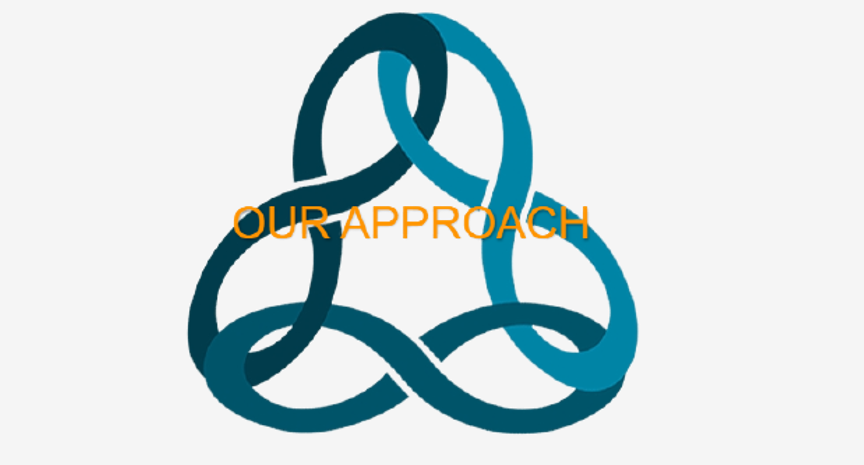
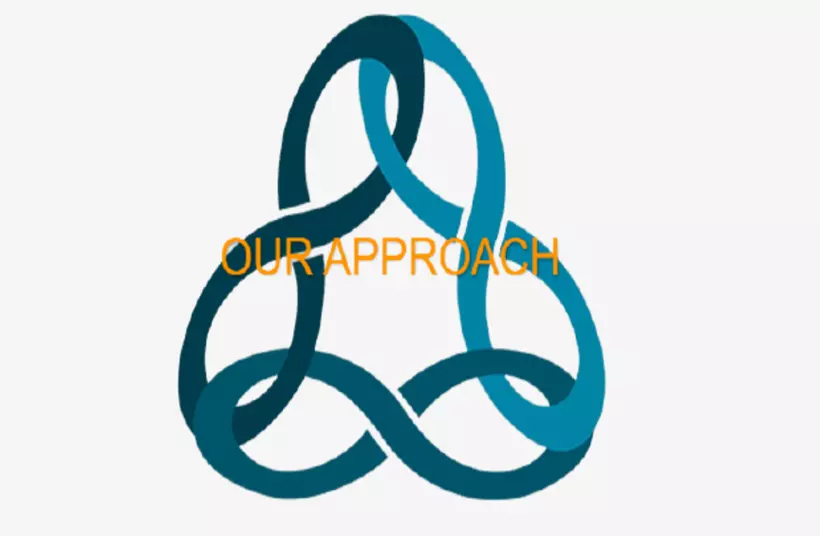
about webpimages

Changed region(s): [[0.2744, 0.4215, 0.7012, 0.5118]]

diff --git a/templates/team.html b/templates/team.html
@@ -6,30 +6,30 @@
     <div class="nameplate-template">
         <div class="container-fluid">
             <div class="row">
-                    <a class="col-4" style="padding:0%" href="#vission_mission"><div class="nameplate-image" style="background-image: url({{url_for('static', filename='/images/skip/img1.webp')}});"></div></a>
-                    <a class="col-4" style="padding:0%" href="#who_we_are"><div class="nameplate-image" style="background-image: url({{url_for('static', filename='/images/skip/img2.webp')}});"></div></a>
-                    <a class="col-4" style="padding:0%" href="#our_approach"><div class="nameplate-image" style="background-image: url({{url_for('static', filename='/images/skip/img3.webp')}});"></div></a>
-                    <a class="col-4" style="padding:0%" href="#our_proud_partners"><div class="nameplate-image" style="background-image: url({{url_for('static', filename='/images/skip/img4.webp')}});"></div></a>
-                    <a class="col-4" style="padding:0%" href="#team_template"><div class="nameplate-image" style="background-image: url({{url_for('static', filename='/images/skip/img5.webp')}});"></div></a>
-                    <a class="col-4" style="padding:0%" href="#financials"><div class="nameplate-image" style="background-image: url({{url_for('static', filename='/images/skip/img6.webp')}});"></div></a>
+                    <a class="col col-xl-4 col-lg-4 col-md-4 col-sm-6 col-6" style="padding-top: 1.5%; padding-bottom: 1.5%;" href="#vission_mission"><div class="nameplate-image" style=" background-image: url({{url_for('static', filename='/images/skip/img1.webp')}});"></div></a>
+                    <a class="col col-xl-4 col-lg-4 col-md-4 col-sm-6 col-6" style="padding-top: 1.5%; padding-bottom: 1.5%;" href="#who_we_are"><div class="nameplate-image" style="background-image: url({{url_for('static', filename='/images/skip/img2.webp')}});"></div></a>
+                    <a class="col col-xl-4 col-lg-4 col-md-4 col-sm-6 col-6" style="padding-top: 1.5%; padding-bottom: 1.5%;" href="#our_approach"><div class="nameplate-image" style="background-image: url({{url_for('static', filename='/images/skip/img3.webp')}});"></div></a>
+                    <a class="col col-xl-4 col-lg-4 col-md-4 col-sm-6 col-6" style="padding-top: 1.5%; padding-bottom: 1.5%;" href="#our_proud_partners"><div class="nameplate-image" style="background-image: url({{url_for('static', filename='/images/skip/img4.webp')}});"></div></a>
+                    <a class="col col-xl-4 col-lg-4 col-md-4 col-sm-6 col-6" style="padding-top: 1.5%; padding-bottom: 1.5%;" href="#team_template"><div class="nameplate-image" style="background-image: url({{url_for('static', filename='/images/skip/img5.webp')}});"></div></a>
+                    <a class="col col-xl-4 col-lg-4 col-md-4 col-sm-6 col-6" style="padding-top: 1.5%; padding-bottom: 1.5%;" href="#financials"><div class="nameplate-image" style="background-image: url({{url_for('static', filename='/images/skip/img6.webp')}});"></div></a>
             </div>
         </div>
     </div>
 
     <div id="vission_mission" class="team-template">
-        <h1 class="team-title">Vision & Mission</h1>
+        <h1 class="about-title">Vision & Mission</h1>
     </div>
     
     <div id="who_we_are" style="background-color: aqua;">
-        <h1 class="team-title">Who we Are</h1>
+        <h1 class="about-title">Who we Are</h1>
     </div>
     
     <div id="our_approach" class="team-template">
-        <h1 class="team-title">Our Approach</h1>
+        <h1 class="about-title">Our Approach</h1>
     </div>
     
     <div id="our_proud_partners" style="background-color: aqua;">
-        <div class="team-title">Our Proud Partners</div>
+        <div class="about-title">Our Proud Partners</div>
         <div class="container-fluid">
         <div class="row">
             <div class="col-lg-3 col-md-6 col-xs-12">
@@ -44,7 +44,7 @@
     </div>
 
     <div id="team_template" class="team-template">
-        <h1 class="team-title">Team Members</h1>
+        <h1 class="about-title">Team Members</h1>
         <div class="container-fluid">
             <div class="row team-rows justify-content-center">
                 <div class="col-xl-3 col-lg-4 col-md-6  col-sm-6 col-12 team-cols">

diff --git a/static/css/style.css b/static/css/style.css
@@ -65,72 +65,6 @@ ul.dropdown-menu.show {
 .layout-nav-link:hover{
   color: white;
 }
-
-
-/***Team Page Starts***/
-.team-template{
-	padding-top: 10px;
-	padding-bottom: 10px;
-  
-  background-color: #7cffcb;
-  background-image: linear-gradient(315deg, #7cffcb 0%, #74f2ce 74%);
-
-}
-.team-title{
-	text-align: center;
-	font-size: 350%;
-	text-transform: uppercase;
-	
-	margin-bottom: 10px;
-	margin-top: 20px;
-	color: #fff;
-  font-family: 'Open Sans Condensed', sans-serif;
-	text-shadow: 0 1px 10px rgb(0 0 0 / 60%);
-}
-.flip-card {
-	background-color: transparent;
-	width: 300px;
-	height: 300px;
-	perspective: 1000px;
-} 
-.flip-card-inner {
-	position: relative;
-	width: 100%;
-	height: 100%;
-	text-align: center;
-	transition: transform 0.6s;
-	transform-style: preserve-3d;
-	box-shadow: 0 4px 15px 0 rgba(0,0,0,0.2);
-} 
-.flip-card:hover .flip-card-inner {
-	transform: rotateY(180deg);
-} 
-.flip-card-front, .flip-card-back {
-	position: absolute;
-	width: 100%;
-	height: 100%;
-	-webkit-backface-visibility: hidden;
-	backface-visibility: hidden;
-}  
-.flip-card-front {
-	background-color: #bbb;
-	color: black;
-}  
-.flip-card-back {
-  padding-top: 100px;
-	background-color: #2980b9;
-	color: white;
-	transform: rotateY(180deg);
-}
-.team-rows{
-  margin-top: 2em;
-  margin-bottom: 2em;
-}
-.team-cols{
-  margin-top: 2em;
-}
-/***Team Page Ends***/
-
 /***Footer Starts***/
 .layout-foottext{
 	color: white;
@@ -241,13 +175,74 @@ color: white;}
 /***About Starts***/
 .nameplate-image{
 	width: 100%;
-
-	padding-top: 75%;
+	padding-top: 65%;
+	border: 2px solid;
+	background-size: 100%;
+	border-radius: 20px;
 	background-repeat: no-repeat;
-	background-size: cover;
 }
-
 .nameplate-image:hover{
 	opacity: 0.5;
+}
+.team-template{
+	padding-top: 10px;
+	padding-bottom: 10px;
+  
+  background-color: #7cffcb;
+  background-image: linear-gradient(315deg, #7cffcb 0%, #74f2ce 74%);
+
+}
+.about-title{
+	text-align: center;
+	font-size: 350%;
+	text-transform: uppercase;
+	
+	margin-bottom: 10px;
+	margin-top: 20px;
+	color: #fff;
+  font-family: 'Open Sans Condensed', sans-serif;
+	text-shadow: 0 1px 10px rgb(0 0 0 / 60%);
+}
+.flip-card {
+	background-color: transparent;
+	width: 300px;
+	height: 300px;
+	perspective: 1000px;
+} 
+.flip-card-inner {
+	position: relative;
+	width: 100%;
+	height: 100%;
+	text-align: center;
+	transition: transform 0.6s;
+	transform-style: preserve-3d;
+	box-shadow: 0 4px 15px 0 rgba(0,0,0,0.2);
+} 
+.flip-card:hover .flip-card-inner {
+	transform: rotateY(180deg);
+} 
+.flip-card-front, .flip-card-back {
+	position: absolute;
+	width: 100%;
+	height: 100%;
+	-webkit-backface-visibility: hidden;
+	backface-visibility: hidden;
+}  
+.flip-card-front {
+	background-color: #bbb;
+	color: black;
+}  
+.flip-card-back {
+  padding-top: 100px;
+	background-color: #2980b9;
+	color: white;
+	transform: rotateY(180deg);
+}
+.team-rows{
+  margin-top: 2em;
+  margin-bottom: 2em;
+}
+.team-cols{
+  margin-top: 2em;
 }
 /***About Ends***/
